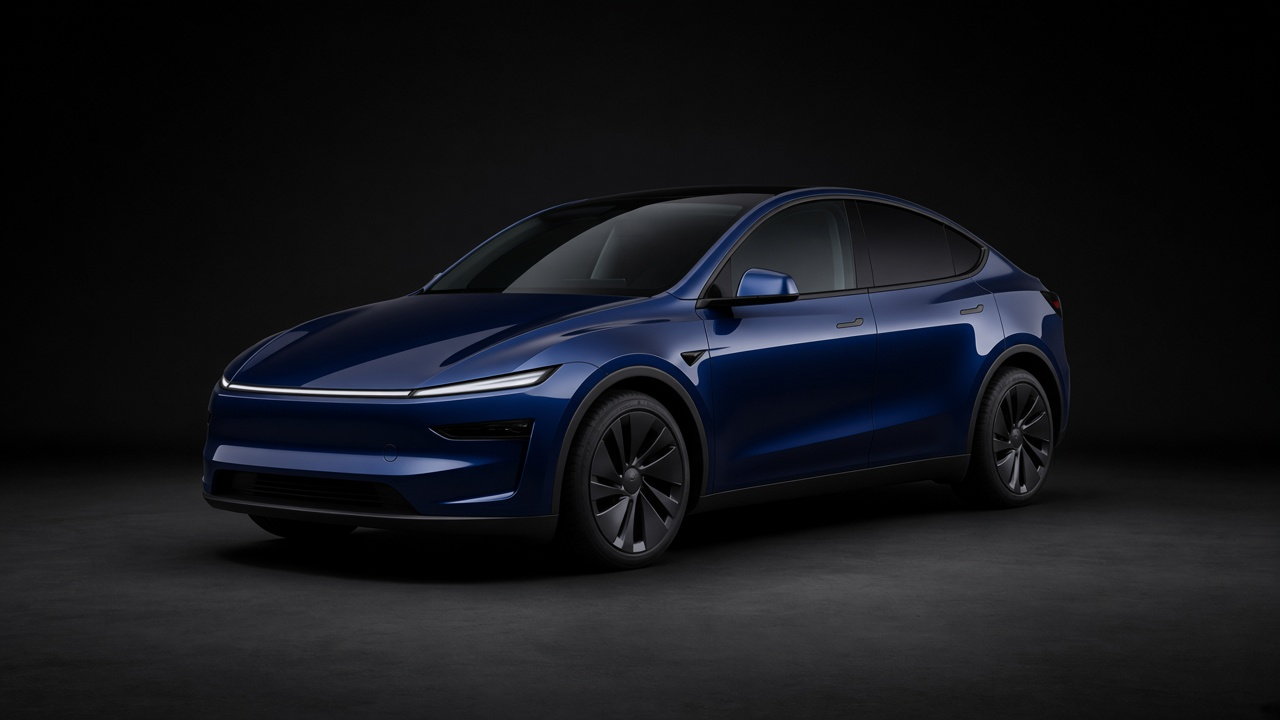
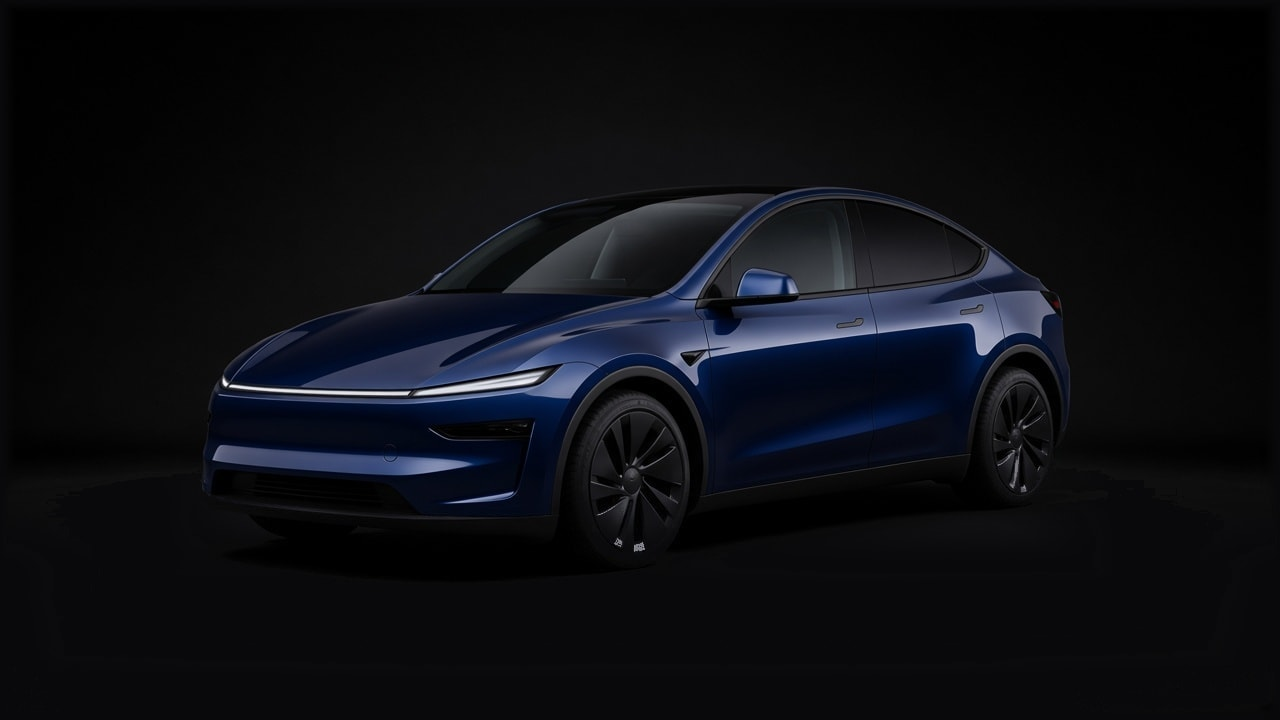
Feather the studio floor and hide paint swatches until asked.
The grey ground under each car fades into the garage instead of ending on a hard edge. Change color opens the paints for that model, including Model 3.

Changed region(s): [[0.0, 0.6111, 1.0, 1.0], [0.4688, 0.6722, 0.5312, 0.7639], [0.3125, 0.7028, 0.375, 0.7333]]

diff --git a/src/components/dashboard/car-portrait.tsx b/src/components/dashboard/car-portrait.tsx
@@ -31,6 +31,7 @@ export function CarPortrait({
   const [file, setFile] = useState<AppearanceFile>(EMPTY);
   const [ready, setReady] = useState(false);
   const [modelOpen, setModelOpen] = useState(false);
+  const [colorOpen, setColorOpen] = useState(false);
   const [error, setError] = useState<string | null>(null);
   const [brokenSrc, setBrokenSrc] = useState<string | null>(null);
 
@@ -83,6 +84,7 @@ export function CarPortrait({
       const body = (await response.json()) as AppearanceFile & { error?: string };
       if (!response.ok) throw new Error(body.error ?? "Could not save that paint");
       setFile({ colors: body.colors ?? {}, models: body.models ?? {} });
+      setColorOpen(false);
     } catch (err) {
       setFile(previous);
       setError(err instanceof Error ? err.message : "Could not save that paint");
@@ -111,6 +113,7 @@ export function CarPortrait({
             {resolved.modelId ? "That photo is not in this build." : "Pick the model to show a photo."}
           </div>
         )}
+        <div className="pointer-events-none absolute inset-x-0 bottom-0 h-12 bg-gradient-to-t from-[#09090b] to-transparent short:h-6" />
       </div>
       <div className="flex flex-wrap items-center gap-x-4 gap-y-2 border-t border-white/10 px-3 py-3 short:py-2">
         <div className="min-w-0">
@@ -121,27 +124,15 @@ export function CarPortrait({
             {reportedColor ? ` · car reports ${reportedColor}` : ""}
           </p>
         </div>
-        {paints.length > 0 && (
-          <div className="flex flex-wrap gap-2" role="group" aria-label={`${modelName} paint`}>
-            {paints.map((item) => {
-              const selected = item.id === resolved.colorId;
-              return (
-                <button
-                  key={item.id}
-                  type="button"
-                  aria-label={item.name}
-                  aria-pressed={selected}
-                  title={item.name}
-                  disabled={!ready || !resolved.modelId}
-                  onClick={() => resolved.modelId && void choose(resolved.modelId, item.id)}
-                  className={`size-7 rounded-full border border-white/40 short:size-6 ${
-                    selected ? "ring-2 ring-white ring-offset-2 ring-offset-[#09090b]" : ""
-                  }`}
-                  style={{ backgroundColor: item.hex }}
-                />
-              );
-            })}
-          </div>
+        {resolved.modelId && paints.length > 0 && (
+          <button
+            type="button"
+            className="text-xs text-muted-foreground underline-offset-2 hover:underline"
+            aria-expanded={colorOpen}
+            onClick={() => setColorOpen((open) => !open)}
+          >
+            {colorOpen ? "Hide colors" : "Change color"}
+          </button>
         )}
         {resolved.modelId && (
           <button
@@ -165,6 +156,28 @@ export function CarPortrait({
               {item.name}
             </Button>
           ))}
+        </div>
+      )}
+      {colorOpen && paints.length > 0 && (
+        <div className="flex flex-wrap gap-2 px-3 pb-3" role="group" aria-label={`${modelName} paint`}>
+          {paints.map((item) => {
+            const selected = item.id === resolved.colorId;
+            return (
+              <button
+                key={item.id}
+                type="button"
+                aria-label={item.name}
+                aria-pressed={selected}
+                title={item.name}
+                disabled={!ready || !resolved.modelId}
+                onClick={() => resolved.modelId && void choose(resolved.modelId, item.id)}
+                className={`size-7 rounded-full border border-white/40 short:size-6 ${
+                  selected ? "ring-2 ring-white ring-offset-2 ring-offset-[#09090b]" : ""
+                }`}
+                style={{ backgroundColor: item.hex }}
+              />
+            );
+          })}
         </div>
       )}
       {error && <p className="px-3 pb-3 text-sm text-red-300">{error}</p>}
